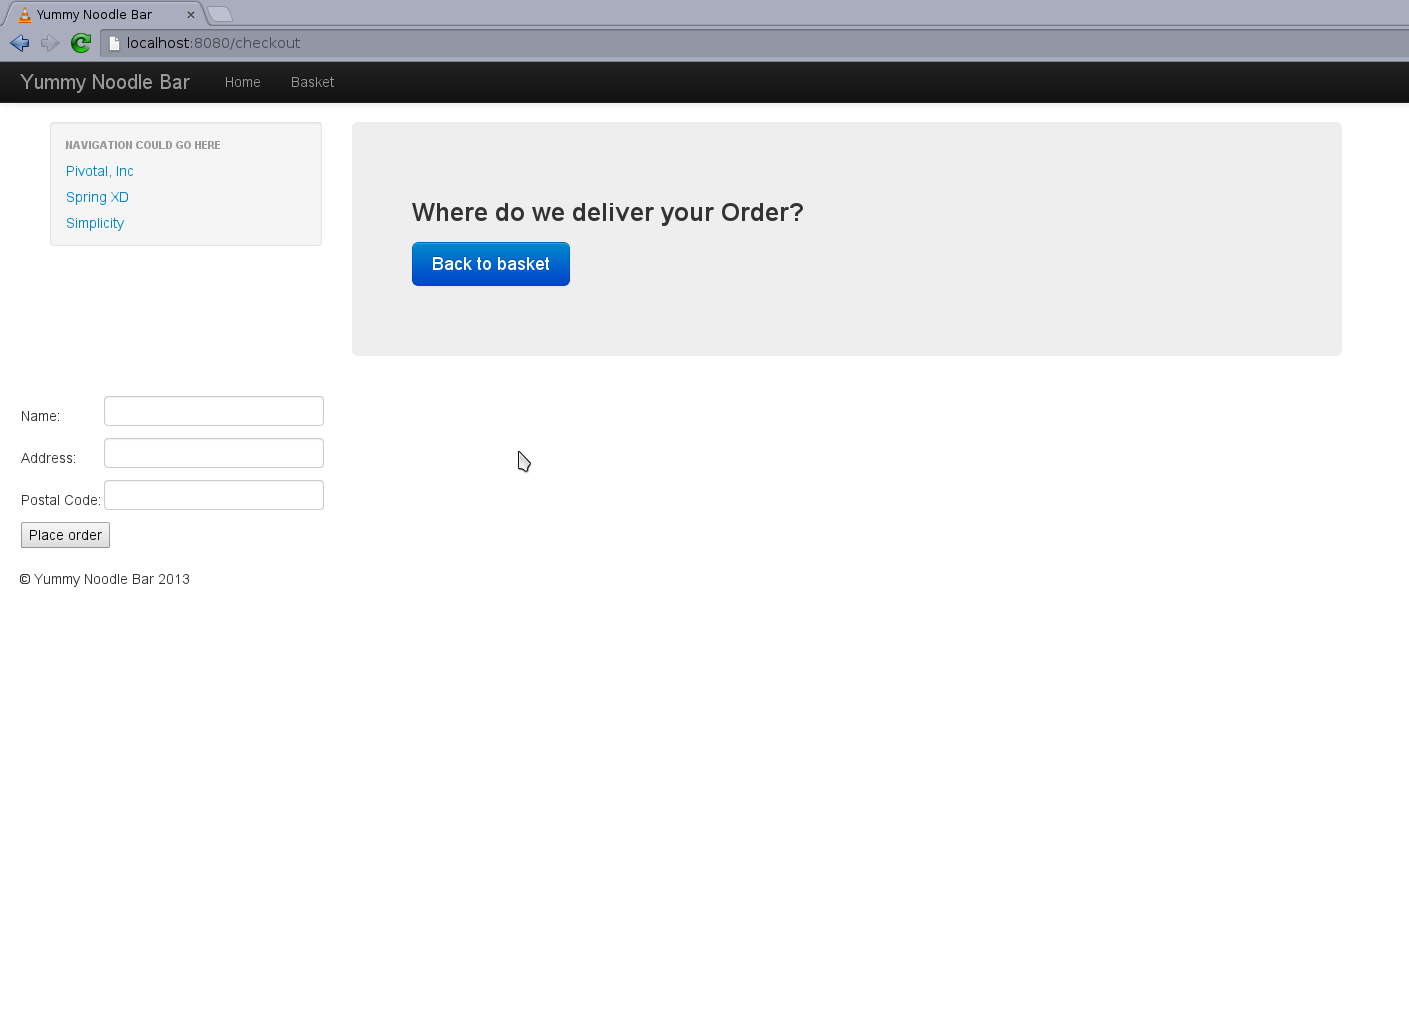
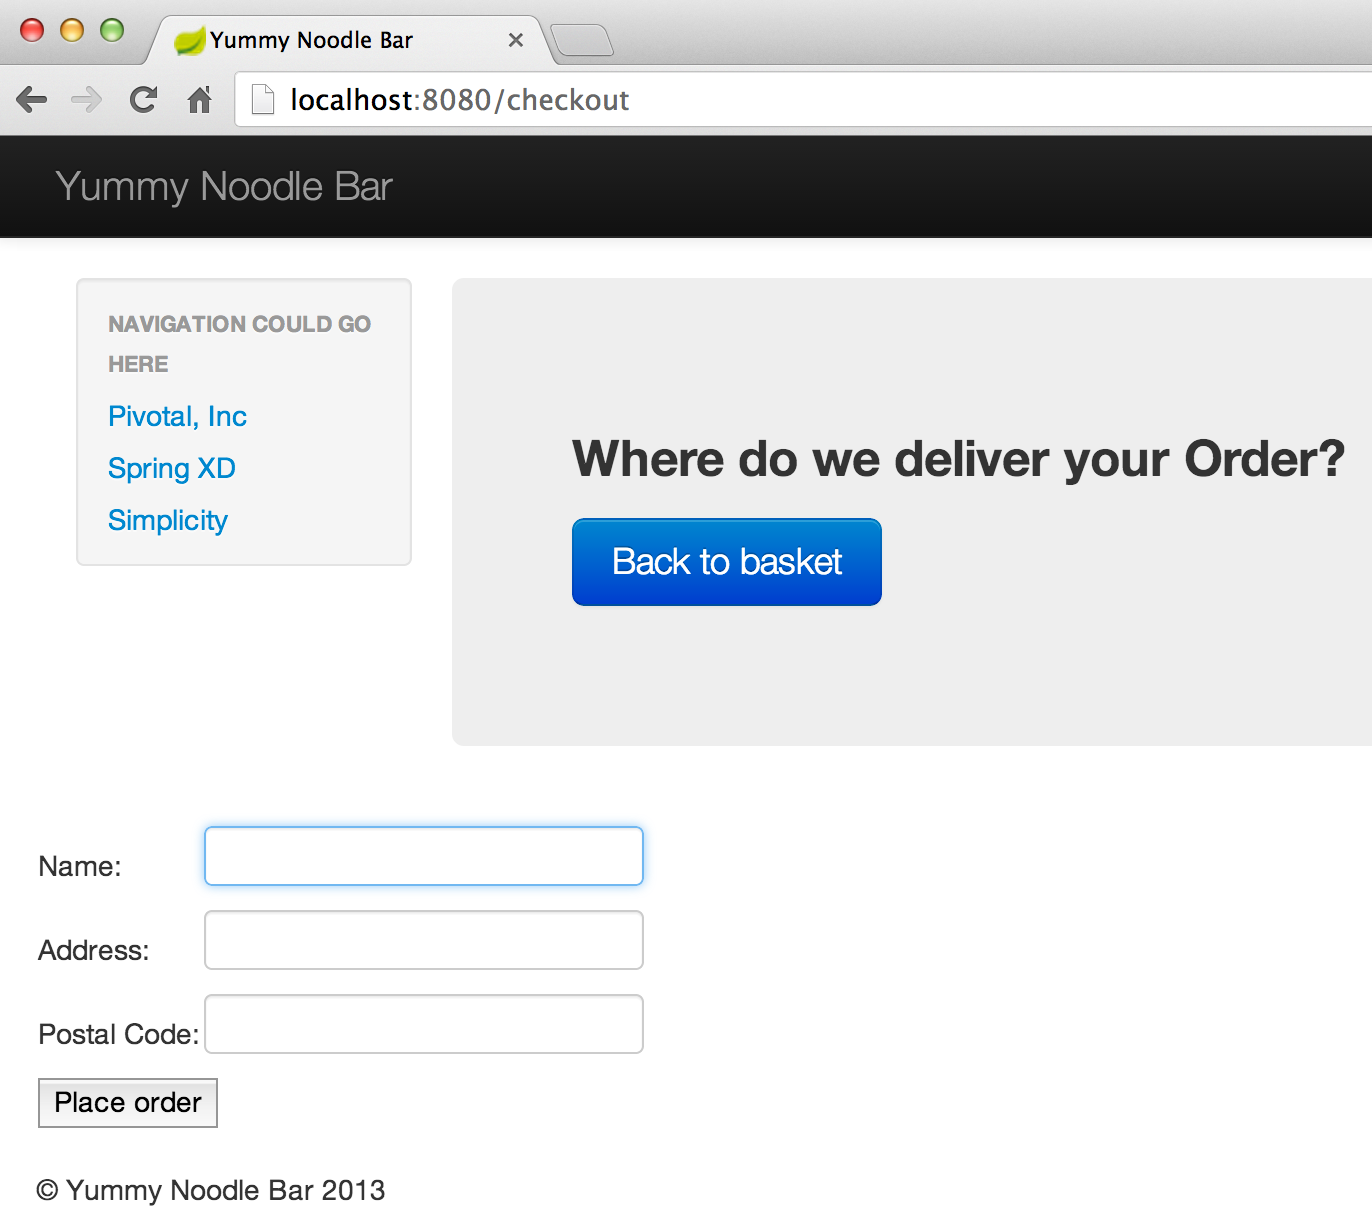
Update images with easier-to-read while also fixing some image links

diff --git a/6/README.ftl.md b/6/README.ftl.md
@@ -85,9 +85,13 @@ Run the application.
 $ ./gradlew tomcatRunWar
 ```
 
-When you visit [http://localhost:8080/](http://localhost:8080) you will be able to see the available menu and add items to your basket, as before.  However now, if you click checkout on the basket screen and visit [http://localhost:8080/checkout](http://localhost:8080/checkout), you will instead be redirected to a login screen and forced to log in before beign able to proceed.
+When you visit [http://localhost:8080/](http://localhost:8080) you will be able to see the available menu and add items to your basket, as before.  However now, if you click checkout on the basket screen and visit [http://localhost:8080/checkout](http://localhost:8080/checkout), you will instead be redirected to a login screen and forced to log in before being able to proceed.
 
-Enter the user name and password you configured in `SecurityConfig`: user `letsnosh` and password `noshing`.  You will then be taken to the checkout page, as before.  This time, however, you are logged in.
+![Checkout](../images/page_login.png)
+
+Enter the user name and password you configured in `SecurityConfig`: user `letsnosh` and password `noshing`.  You will then be taken to the checkout page, as before.  This time, however, you are logged in.  
+
+> **Note:** You may notice that the theme of Yummy Noodle Bar is missing on the login page. It's possible to use a custom login page, for purposes of brevity, this tutorial using Spring Security's default login page.
 
 ## Summary
 

diff --git a/6/README.md b/6/README.md
@@ -211,9 +211,13 @@ Run the application.
 $ ./gradlew tomcatRunWar
 ```
 
-When you visit [http://localhost:8080/](http://localhost:8080) you will be able to see the available menu and add items to your basket, as before.  However now, if you click checkout on the basket screen and visit [http://localhost:8080/checkout](http://localhost:8080/checkout), you will instead be redirected to a login screen and forced to log in before beign able to proceed.
+When you visit [http://localhost:8080/](http://localhost:8080) you will be able to see the available menu and add items to your basket, as before.  However now, if you click checkout on the basket screen and visit [http://localhost:8080/checkout](http://localhost:8080/checkout), you will instead be redirected to a login screen and forced to log in before being able to proceed.
+
+![Checkout](../images/page_login.png)
 
 Enter the user name and password you configured in `SecurityConfig`: user `letsnosh` and password `noshing`.  You will then be taken to the checkout page, as before.  This time, however, you are logged in.
+
+> **Note:** You may notice that the theme of Yummy Noodle Bar is missing on the login page. It's possible to use a custom login page, for purposes of brevity, this tutorial using Spring Security's default login page.
 
 ## Summary
 

diff --git a/5/README.ftl.md b/5/README.ftl.md
@@ -139,7 +139,7 @@ Lastly, create the view for the order and its status.
 
 It should look like
 
-![Checkout](../images/page_basket.png)
+![Checkout](../images/page_order.png)
 
 ## Summary
 

diff --git a/5/README.md b/5/README.md
@@ -748,7 +748,7 @@ Lastly, create the view for the order and its status.
 
 It should look like
 
-![Checkout](../images/page_basket.png)
+![Checkout](../images/page_order.png)
 
 ## Summary
 
